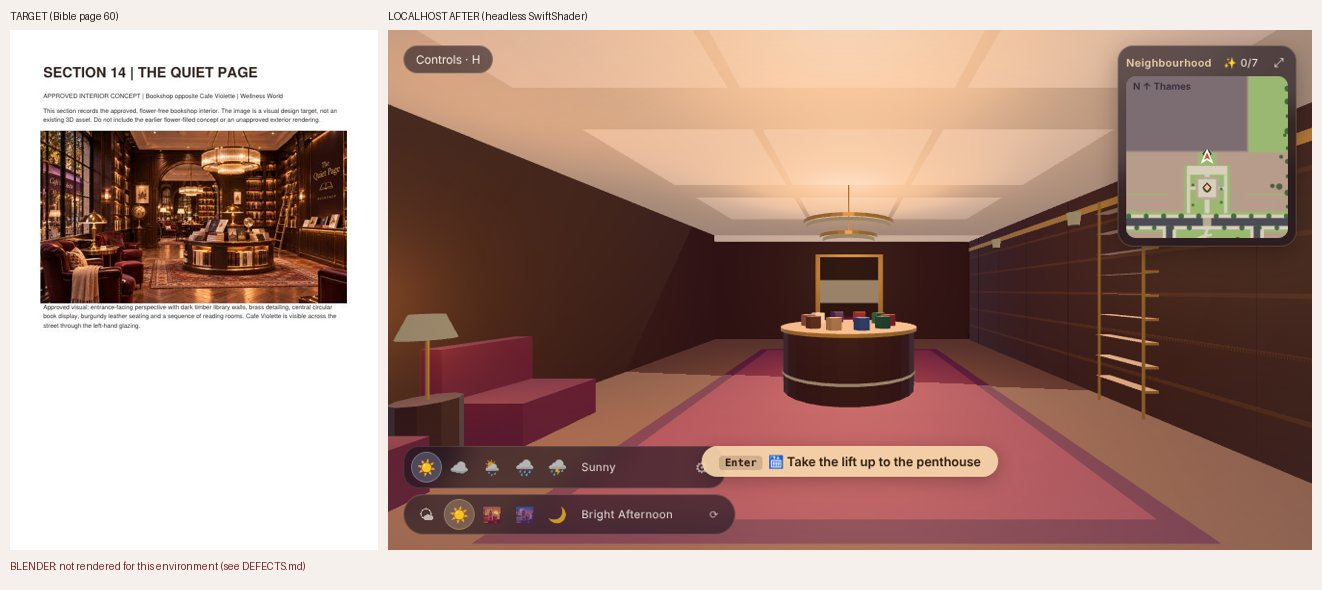
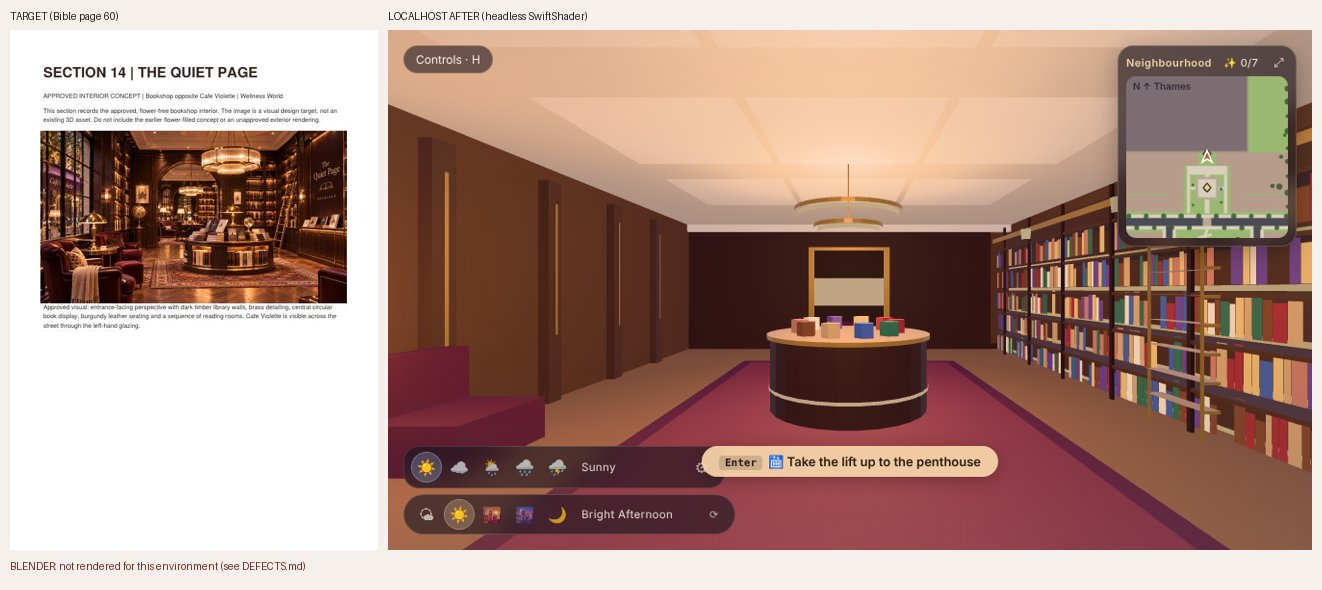
Quiet Page: visible book wall (fix occluding panel), lighter walnut, pilasters, lit shelves

diff --git a/src/street/interiors.js b/src/street/interiors.js
@@ -77,13 +77,14 @@ export function cafeInterior(ch, F, c, L) {
 
 export function bookInterior(ch, F, c, L) {
   const { w, d } = c, x0 = -w / 2 + 0.12, x1 = w / 2 - 0.12, z0 = -d + 0.3
-  shell(ch, F, c, { floor: '#6e4a36', ceil: '#cfbda3', wall: '#38261F', skirt: '#2b1c16' })
+  shell(ch, F, c, { floor: '#8a5f40', ceil: '#d8c6ab', wall: '#5a3d2c', skirt: '#3a261c' })
   // oxblood rug with border
   ch.box(F, -2.2, 2.2, FL, FL + 0.012, -9.8, -3.2, col('#592B37'), 'trim', 'u', 1, 1, 0); ch.box(F, -2.0, 2.0, FL + 0.012, FL + 0.02, -9.6, -3.4, col('#7a3a40'), 'trim', 'u', 1, 1, 0)
   // continuous bookshelf wall on the x+ side with books + rolling ladder
-  const R = ch.R, bookCols = ['#7a2f2f', '#2f4a3a', '#3b4a6a', '#a07850', '#5a3a28', '#8a5a4a', '#d8c7a8', '#4a3550']
-  ch.box(F, x1 - 0.5, x1, FL, CE - 0.2, z0 + 0.3, -1.5, col('#38261F'), 'wood', 'l', 1, 1, 0)
+  const R = ch.R, bookCols = ['#9a3a3a', '#3f6a4e', '#4a5f8f', '#c29a68', '#7a4a32', '#b9785f', '#e6d6b4', '#6a4a80', '#d9b26a']
+  ch.box(F, x1 - 0.04, x1, FL, CE - 0.2, z0 + 0.3, -1.5, col('#4a3123'), 'wood', 'l', 1, 1, 0)
   for (let b = 0; b < 8; b++) { const zA = -1.6 - b * 1.3; ch.box(F, x1 - 0.5, x1 - 0.46, FL, CE - 0.2, zA - 0.05, zA, col('#2b1c16'), 'wood', 'fulr', 1, 1, 0) }
+  for (const y of [0.45, 0.95, 1.45, 1.95, 2.45]) ch.box(F, x1 - 0.12, x1 - 0.1, FL + y - 0.46, FL + y - 0.4, z0 + 0.3, -1.5, col('#ffd9a0'), 'glow', 'l', 1, 1, 0)
   for (const y of [0.45, 0.95, 1.45, 1.95, 2.45]) ch.box(F, x1 - 0.5, x1, FL + y - 0.02, FL + y + 0.02, z0 + 0.3, -1.5, col('#4a2f20'), 'wood', 'fulrbud', 1, 1, 0)
   for (const y of [0.0, 0.5, 1.0, 1.5, 2.0]) { let z = -1.7; while (z > z0 + 0.4) { const wd = 0.05 + R() * 0.07, h = 0.28 + R() * 0.16; ch.box(F, x1 - 0.42, x1 - 0.1, FL + y + 0.05, FL + y + 0.05 + h, z - wd, z, col(bookCols[Math.floor(R() * bookCols.length)]), 'trim', 'l', 1, 1, 0); z -= wd + 0.004; if (R() < 0.07) z -= 0.18 } }
   ch.solid(F, x1 - 0.5, x1, FL, CE, z0, -1.5, 'shelves')
@@ -93,6 +94,7 @@ export function bookInterior(ch, F, c, L) {
   // glazed street wall left: tall bronze mullions reading as library windows is the front glazing already; left-hand reading lounge: two oxblood leather chairs + brass lamp
   for (const [x, z, rr] of [[x0 + 0.65, -3.2, 0], [x0 + 0.65, -4.8, 0]]) { ch.box(F, x - 0.45, x + 0.45, FL + 0.05, FL + 0.45, z - 0.45, z + 0.45, col('#592B37'), 'awning', 'fulrb', 1, 1, 0.01); ch.box(F, x - 0.5, x - 0.3, FL + 0.45, FL + 0.95, z - 0.45, z + 0.45, col('#592B37'), 'awning', 'fulrb', 1, 1, 0.01); void rr }
   ch.prism(F, x0 + 0.65, -4.0, 0.2, 0.2, FL, FL + 0.6, col('#38261F'), 'wood', 10); ch.prism(F, x0 + 0.65, -4.0, 0.012, 0.012, FL + 0.6, FL + 1.1, col('#b58a4d'), 'metal', 6); ch.prism(F, x0 + 0.65, -4.0, 0.17, 0.1, FL + 1.1, FL + 1.3, col('#ffe0b0'), 'glow', 12)
+  for (let z = -2.2; z > z0 + 0.6; z -= 1.5) { ch.box(F, x0 + 0.02, x0 + 0.16, FL, CE - 0.2, z - 0.12, z + 0.12, col('#4a3123'), 'wood', 'fr', 1, 1, 0); ch.box(F, x0 + 0.16, x0 + 0.18, FL + 0.9, CE - 0.5, z - 0.02, z + 0.02, col('#b58a4d'), 'metal', 'r', 1, 1, 0) }
   // central circular book island with lit lower shelf
   ch.prism(F, 0, -6.5, 1.0, 1.0, FL, FL + 0.9, col('#38261F'), 'wood', 28); ch.prism(F, 0, -6.5, 1.04, 1.04, FL + 0.9, FL + 0.95, col('#b58a4d'), 'metal', 28); ch.prism(F, 0, -6.5, 1.02, 1.02, FL + 0.28, FL + 0.32, col('#ffd9b0'), 'glow', 28, false)
   for (let i = 0; i < 10; i++) { const a = (i / 10) * Math.PI * 2; ch.prism(F, Math.cos(a) * 0.62, -6.5 + Math.sin(a) * 0.62, 0.12, 0.12, FL + 0.95, FL + 1.12, col(bookCols[i % bookCols.length]), 'trim', 5) }
